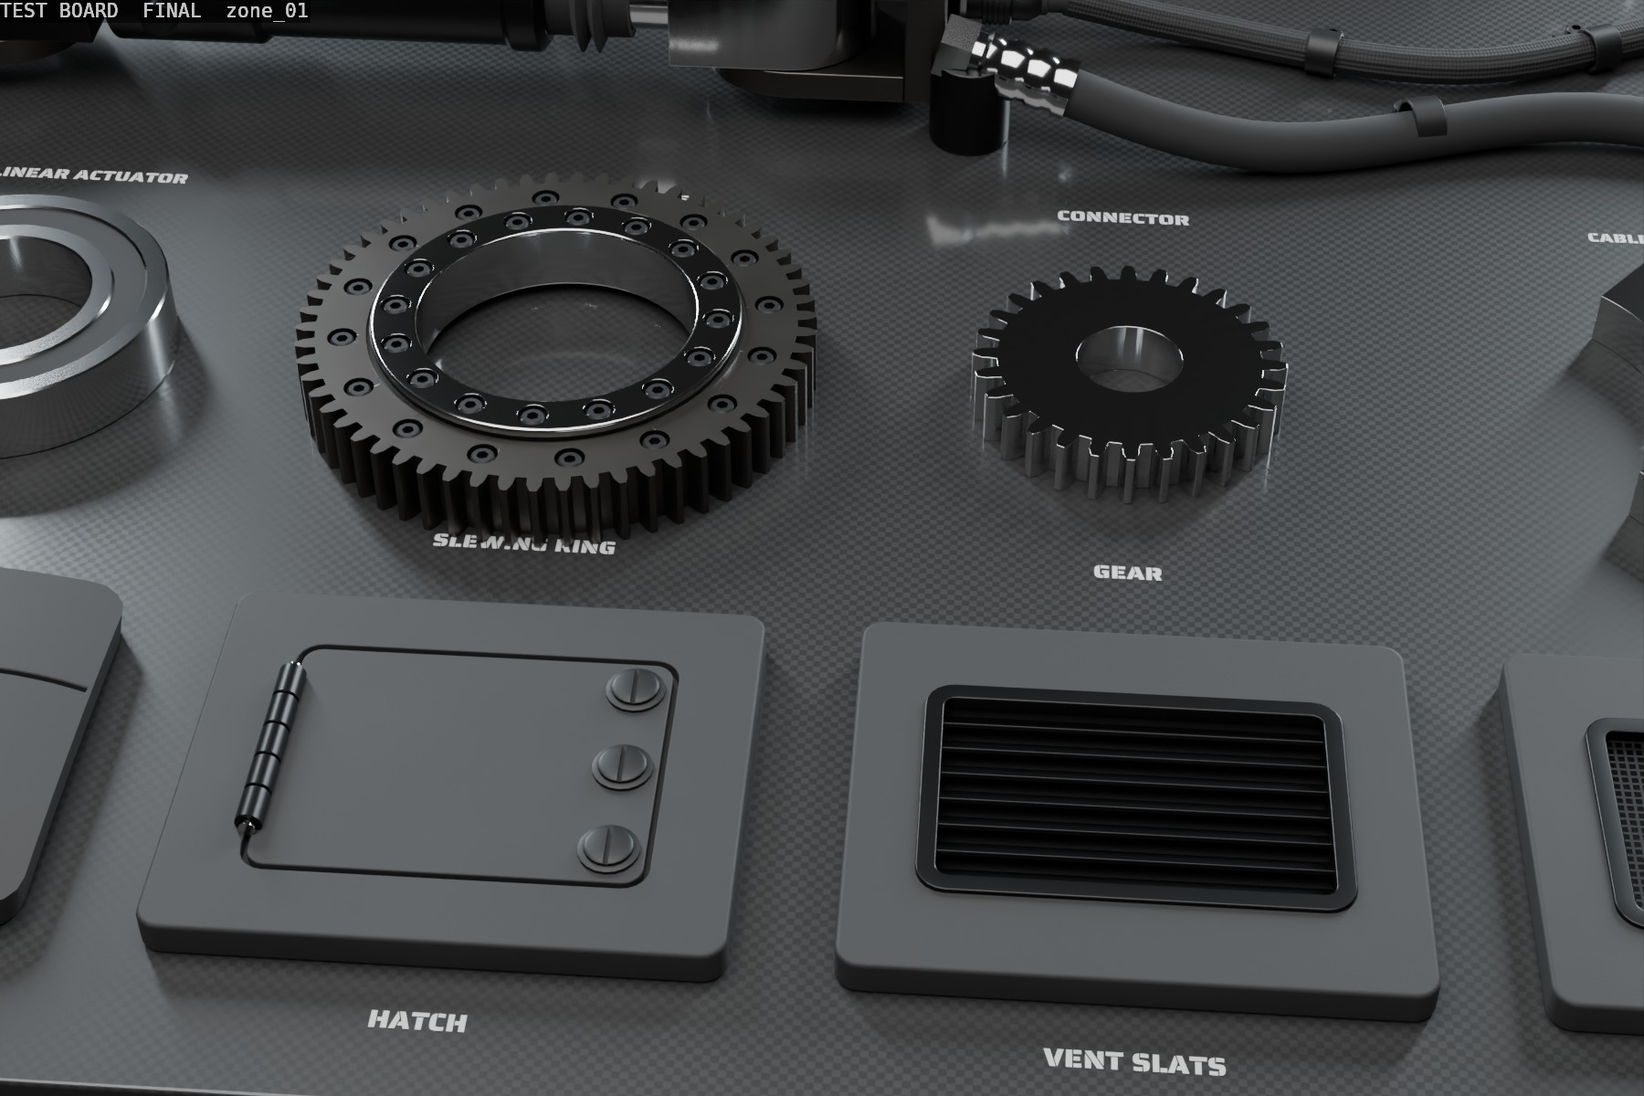
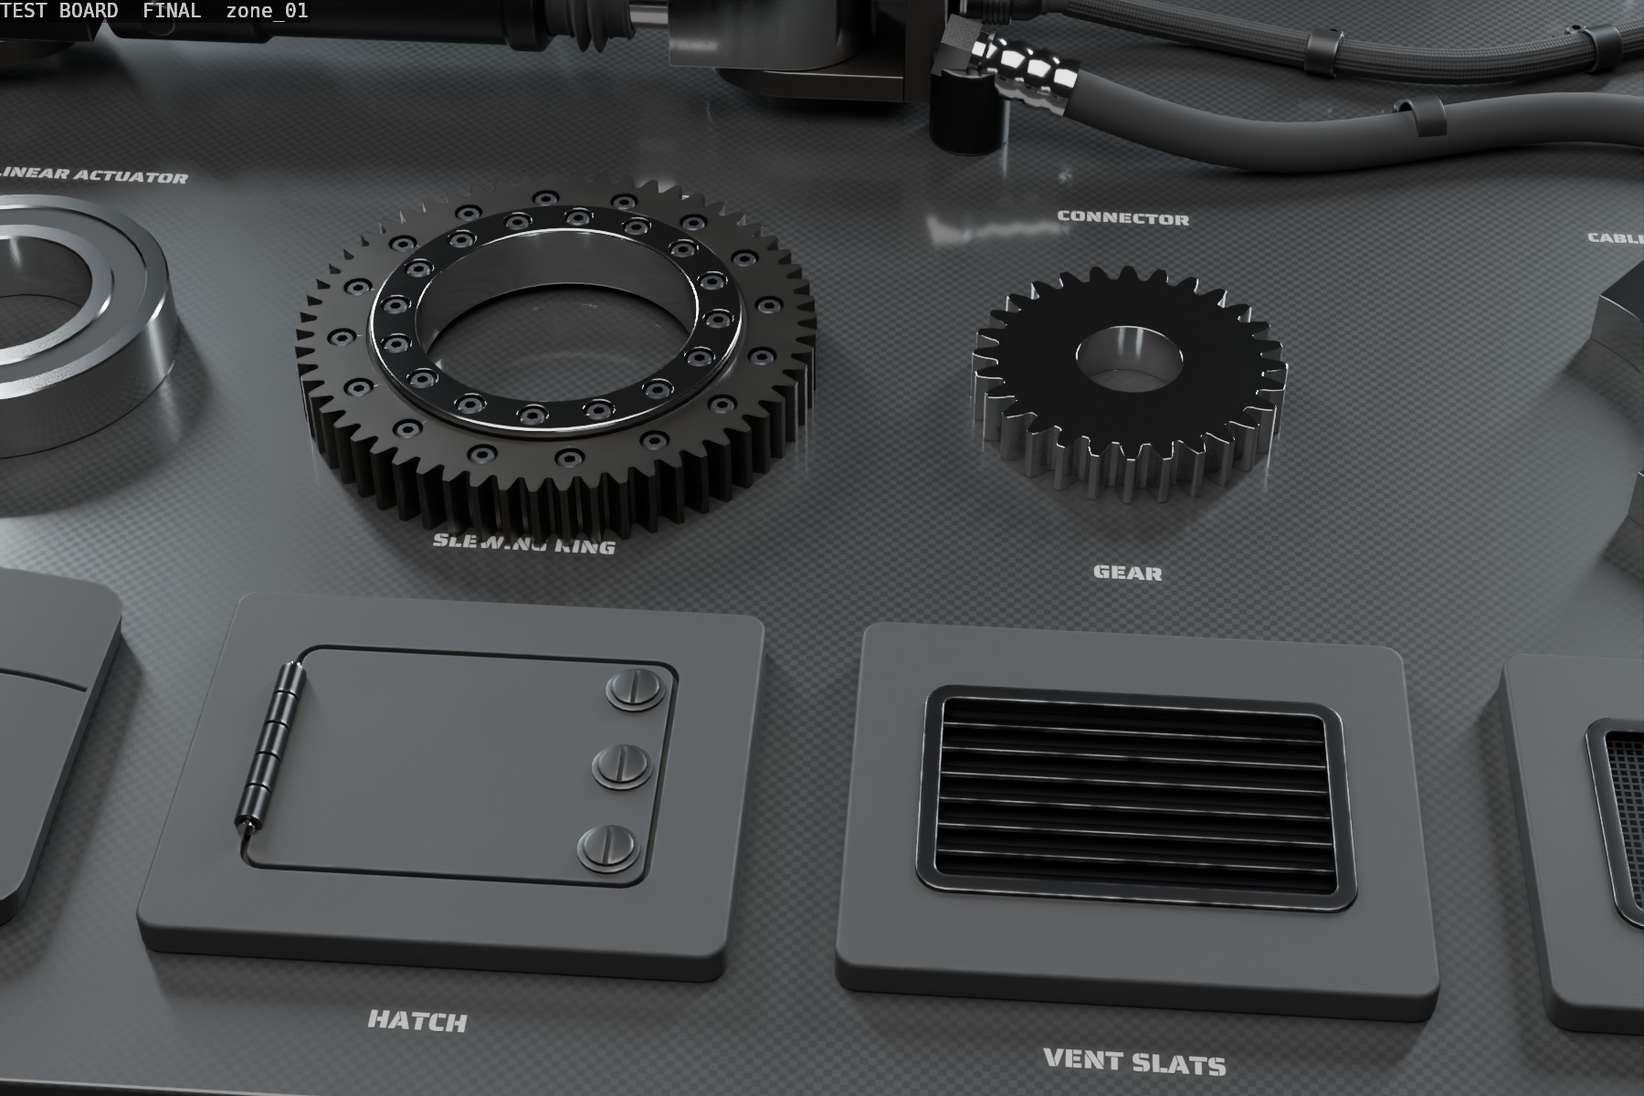
Involute gears, rounded bellows, batch variation, camera-relative hero rig, contact check

diff --git a/blender/rj28/lib/mech.py b/blender/rj28/lib/mech.py
@@ -162,20 +162,27 @@ def bearing(name, od, id_, width, matrix=None, collection=None):
                        [M.get("steel"), M.get("rubber")], bevel=0.0)
 
 
-def gear_outline(module, teeth, phase=0.0, first=0, count=None):
-    """2D spur gear outline (CCW). Involute flanks approximated by three chords."""
+def gear_outline(module, teeth, phase=0.0, first=0, count=None, flank=5):
+    """2D spur gear outline (CCW): true involute flanks at 20 degrees pressure angle,
+    radial below the base circle, with a relieved root."""
     z = teeth
     r = module * z / 2
-    ra, rf = r + module, r - 1.25 * module
+    ra, rf, rb = r + module, r - 1.25 * module, r * math.cos(math.radians(20.0))
+    inv = lambda al: math.tan(al) - al
+    half = math.pi / (2 * z) + inv(math.radians(20.0))        # half tooth angle on the base circle
+
+    def theta(rr):
+        return max(half - inv(math.acos(min(1.0, rb / rr))), 0.04 * module / ra)
+
+    r0 = max(rb, rf + 0.3 * module)
+    radii = [r0 + (ra - r0) * i / (flank - 1) for i in range(flank)]
+    root = min(theta(r0) + 0.22 * module / rf, math.pi / z - 0.06 * module / rf)
+    tooth = [(rf, -root)] + [(rr, -theta(rr)) for rr in radii] + [(rr, theta(rr)) for rr in reversed(radii)] + [(rf, root)]
     p = 2 * math.pi / z
-    tip = 0.36 * module / ra
     pts = []
     for k in range(first, first + (count or z)):
         a = phase + k * p
-        for rr, off in ((rf, -0.30 * p), (rf + 0.35 * module, -0.275 * p), (r, -0.25 * p),
-                        (ra, -tip), (ra, tip), (r, 0.25 * p),
-                        (rf + 0.35 * module, 0.275 * p), (rf, 0.30 * p)):
-            pts.append((rr * math.cos(a + off), rr * math.sin(a + off)))
+        pts += [(rr * math.cos(a + off), rr * math.sin(a + off)) for rr, off in tooth]
     return pts
 
 
@@ -254,15 +261,23 @@ def slewing_ring(name, od, id_, height, bolts=16, size="M6", matrix=None, collec
 
 # ── actuators ────────────────────────────────────────────────────────────────
 def bellows_bm(r_in, r_out, length, pitch=7.0, cuff=8.0):
-    """Rubber bellows along Z from z=0 to z=length with plain cuffs at both ends."""
+    """Rubber bellows along Z from z=0 to z=length. Convolutions have rounded crests
+    and valleys; each cuff carries a raised bead either side of the clamp seat."""
     n = max(2, round((length - 2 * cuff) / pitch))
     p = (length - 2 * cuff) / n
     bore, collar, valley = r_in + 0.4, r_in + 3.0, r_in + 2.2
-    prof = [(bore, 0.0), (collar, 0.0), (collar, cuff)]
+    bead = min(0.9, cuff * 0.12)
+    amp = r_out - valley
+    prof = [(bore, 0.0), (collar, 0.0), (collar + bead, cuff * 0.12), (collar, cuff * 0.24), (collar, cuff * 0.76),
+            (collar + bead, cuff * 0.88), (collar, cuff)]
+    steps = 8
     for i in range(n):
-        z = cuff + i * p
-        prof += [(r_out, z + p * 0.5), (valley, z + p)]
-    prof += [(collar, length - cuff + 0.01), (collar, length), (bore, length)]
+        for k in range(1, steps + 1):
+            t = k / steps
+            prof.append((valley + amp * (0.5 - 0.5 * math.cos(2 * math.pi * t)) ** 0.8, cuff + (i + t) * p))
+    prof[-1] = (collar, length - cuff)
+    prof += [(collar + bead, length - cuff * 0.88), (collar, length - cuff * 0.76), (collar, length - cuff * 0.24),
+             (collar + bead, length - cuff * 0.12), (collar, length), (bore, length)]
     return P.revolve(prof, P.auto_segs(r_out * 2))
 
 

diff --git a/blender/tools/check_contact.py b/blender/tools/check_contact.py
@@ -1,0 +1,79 @@
+"""Find parts that float and parts that sink into each other.
+
+    blender --background --python blender/tools/check_contact.py -- [float_mm] [sink_mm]
+
+FLOAT: no vertex of the part comes within float_mm (default 1.5) of any other part.
+SINK:  some vertex of part A lies more than sink_mm (default 6) inside part B.
+Fasteners, cables and decals are meant to sit inside their hosts and are skipped as A.
+"""
+import sys
+from pathlib import Path
+
+import bmesh
+import bpy
+from mathutils import Vector
+from mathutils.bvhtree import BVHTree
+
+sys.path.insert(0, str(Path(__file__).resolve().parents[1]))
+
+from rj28 import model, parts  # noqa: E402
+from rj28.lib import core as C  # noqa: E402
+
+args = sys.argv[sys.argv.index("--") + 1:] if "--" in sys.argv else []
+FLOAT = float(args[0]) if args else 1.5
+SINK = float(args[1]) if len(args) > 1 else 6.0
+SKIP_A = ("Screw", "Bolt", "Stud", "Quarter_Turn", "Cable", "Lead", "Loom", "Hose", "Line", "Loop", "Plug", "Pin",
+          "Label", "Mark", "Ferrule", "Clip", "Washer")
+
+model.build(None, context=False)
+items = []
+for ob in parts.all_parts():
+    if ob.type != "MESH" or not len(ob.data.vertices):
+        continue
+    me = C.evaluated_mesh(ob)
+    bm = bmesh.new()
+    bm.from_mesh(me)
+    bmesh.ops.triangulate(bm, faces=bm.faces)
+    vs = [v.co * 1000.0 for v in bm.verts]
+    tree = BVHTree.FromPolygons(vs, [[v.index for v in f.verts] for f in bm.faces])
+    lo = Vector([min(v[i] for v in vs) for i in range(3)])
+    hi = Vector([max(v[i] for v in vs) for i in range(3)])
+    items.append((ob.name, vs[::max(1, len(vs) // 1500)], tree, lo, hi, ob.get("rj28_assembly", "")))
+    bm.free()
+    bpy.data.meshes.remove(me)
+
+floats, sinks = [], []
+gap = {}                                   # part -> smallest distance to any other part, either direction
+for name, vs, _, lo, hi, aa in items:
+    if aa == "17":
+        continue
+    worst = (0.0, "")
+    for other, _, tree, lo2, hi2, aa2 in items:
+        if other == name or aa2 == "17" or any(lo[i] > hi2[i] + 20 or hi[i] < lo2[i] - 20 for i in range(3)):
+            continue
+        for v in vs:
+            co, no, _, d = tree.find_nearest(v, 40.0)
+            if co is None:
+                continue
+            gap[name] = min(gap.get(name, 1e9), d)
+            gap[other] = min(gap.get(other, 1e9), d)
+            if d > worst[0] and (v - co).dot(no) < 0 and tree.ray_cast(v, (v - co).normalized() * -1)[0] is not None:
+                # behind the nearest face: count hits along one ray to confirm it is inside a closed solid
+                hits, p, dirn = 0, v.copy(), Vector((0.3, 0.5, 0.81)).normalized()
+                while True:
+                    h = tree.ray_cast(p, dirn)
+                    if h[0] is None:
+                        break
+                    hits += 1
+                    p = h[0] + dirn * 1e-3
+                if hits % 2:
+                    worst = (d, other)
+    if worst[0] > SINK and not any(k in name for k in SKIP_A) and "Thorax_Frame" not in worst[1]:
+        sinks.append((worst[0], name, worst[1]))
+
+floats = [(gap.get(n, 99.0), n) for n, *_rest, aa in items if aa != "17" and gap.get(n, 99.0) > FLOAT]
+for d, name in sorted(floats, reverse=True):
+    print(f"FLOAT {d:6.1f} {name}")
+for d, a, b in sorted(sinks, reverse=True)[:80]:
+    print(f"SINK {d:6.1f} {a} in {b}")
+print("CHECK", len(items), "parts,", len(floats), "floating,", len(sinks), "sunk")

diff --git a/blender/rj28/hero.py b/blender/rj28/hero.py
@@ -48,19 +48,29 @@ def _area(name, loc, target, size, power, color=(1, 1, 1), size_y=None, spread=1
     return ob
 
 
-def studio(extent=2000.0, gain=1.0):
-    """Build the hero light rig around a subject standing at the origin."""
+def studio(extent=2000.0, gain=1.0, camera=(0.0, -1.0, 0.0)):
+    """Build the hero light rig around a subject standing at the origin. The rig is laid out for a
+    camera straight in front and turned about Z to wherever the camera really is, so the rims stay
+    behind the subject and the strips stay beside the lens in every shot."""
+    import math
+    from mathutils import Matrix
+    turn = Matrix.Rotation(math.atan2(camera[0], -camera[1]), 3, "Z")
     RD.clear_lights()
     for ob in [o for o in bpy.data.objects if o.name.startswith("RJ28_Floor")]:
         bpy.data.objects.remove(ob)
     k = extent / 2000.0
     p = gain * k * k
     c = Vector((0, 0, 1050)) * k
-    _area("Hero_Key", Vector((250, -700, 3700)) * k, c, 3200 * k, 170 * p, (1.0, 0.99, 0.97), spread=140)
-    rims = [_area(name, Vector((sx * 2300, 2100, 1550)) * k, c + Vector((0, 0, 100)) * k, 380 * k, 95 * p,
+    _area("Hero_Key", turn @ Vector((250, -700, 3700)) * k, c, 3200 * k, 170 * p, (1.0, 0.99, 0.97), spread=140)
+    rims = [_area(name, turn @ Vector((sx * 2300, 2100, 1550)) * k, c + Vector((0, 0, 100)) * k, 380 * k, 95 * p,
                   (0.80, 0.90, 1.0), 2700 * k, spread=100) for name, sx in (("Hero_Rim_L", 1), ("Hero_Rim_R", -1))]
-    rims.append(_area("Hero_Fill", Vector((900, -3300, 450)) * k, c, 2200 * k, 18 * p, (1.0, 0.95, 0.90), 1300 * k,
+    rims.append(_area("Hero_Fill", turn @ Vector((900, -3300, 450)) * k, c, 2200 * k, 18 * p, (1.0, 0.95, 0.90), 1300 * k,
                       spread=150))
+    # black reads through what it reflects: two tall strip boxes at a grazing angle put a soft
+    # gradient down every panel and a highlight on every bevel that faces the front quarter
+    for name, sx, w in (("Hero_Strip_L", 1, 18), ("Hero_Strip_R", -1, 11)):
+        rims.append(_area(name, turn @ Vector((sx * 2700, -1500, 1250)) * k, c, 420 * k, w * p, (0.94, 0.97, 1.0), 2900 * k,
+                          spread=120))
     RD.world(0.012, (0.5, 0.55, 0.6))
     fl = RD.floor(0.0, base=0.008, rough=0.5)
     # the rims draw the silhouette and the fill opens the shadows; only the key lights the floor (light linking)
@@ -95,7 +105,7 @@ def render(name, scale=1.0, samples=256, out=None, tag=""):
     if amount:
         explode.apply()
         explode.pose(amount)
-    studio(shot.get("extent", 2000.0))
+    studio(shot.get("extent", 2000.0), shot.get("gain", 1.0), shot["loc"])
     setup(shot["res"], samples, scale)
     cam = RD.camera(shot["loc"], shot["target"], shot["lens"])
     cam.data.dof.use_dof = False

diff --git a/blender/rj28/materials.py b/blender/rj28/materials.py
@@ -112,6 +112,9 @@ WEAR = {
     "cfrp": (0.0, None, 0.18),
 }
 DUST = (0.105, 0.098, 0.088)
+# key -> (roughness spread, value spread) from part to part: panels and housings come from
+# different batches and wear differently, so no two neighbours are quite the same black
+BATCH = {"armour": (0.10, 0.30), "alu": (0.10, 0.25), "ti": (0.08, 0.18), "cfrp": (0.06, 0.0), "rubber": (0.06, 0.20)}
 
 
 def _mix_rgb(nt, fac, a, b):
@@ -155,7 +158,7 @@ def _source(sock):
     return tuple(v[:3]) if hasattr(v, "__len__") else float(v)
 
 
-def _wear(nt, b, edge_rough, edge_col, dust):
+def _wear(nt, b, edge_rough, edge_col, dust, batch=None):
     """Logical, light wear from two masks.
 
     Edge mask: where the true normal and a 1.5 mm bevel-rounded normal disagree there
@@ -201,6 +204,20 @@ def _wear(nt, b, edge_rough, edge_col, dust):
                   _math(nt, "MULTIPLY", _range(nt, nz2.outputs[0], 0.3, 0.75), dust), clamp=True)
         col = _mix_rgb(nt, d, col, DUST)
         rough = _mix_val(nt, d, rough, 0.92)
+    if batch:
+        rnd = nt.nodes.new("ShaderNodeObjectInfo").outputs["Random"]
+        if batch[0]:
+            rough = _math(nt, "ADD", rough, _math(nt, "MULTIPLY", _math(nt, "SUBTRACT", rnd, 0.5), batch[0]), clamp=True)
+        if batch[1]:
+            k = _math(nt, "ADD", 1.0, _math(nt, "MULTIPLY", _math(nt, "SUBTRACT", rnd, 0.5), batch[1]))
+            mul = nt.nodes.new("ShaderNodeVectorMath")
+            mul.operation = "SCALE"
+            if hasattr(col, "is_output"):
+                nt.links.new(col, mul.inputs[0])
+            else:
+                mul.inputs[0].default_value = col
+            nt.links.new(k, mul.inputs["Scale"])
+            col = mul.outputs["Vector"]
     for sock, v in ((b.inputs["Base Color"], col), (b.inputs["Roughness"], rough)):
         if hasattr(v, "is_output"):
             nt.links.new(v, sock)
@@ -285,7 +302,7 @@ def _build(key):
     else:
         raise KeyError(key)
     if key in WEAR:
-        _wear(nt, b, *WEAR[key])
+        _wear(nt, b, *WEAR[key], batch=BATCH.get(key))
     m["rj28_key"] = key
     return m
 

diff --git a/blender/rj28/markings.py b/blender/rj28/markings.py
@@ -11,7 +11,7 @@ from . import materials as M
 from .lib import fittings as F
 from .lib.core import MM
 
-SRGB_WHITE = (0.82, 0.82, 0.82)
+SRGB_WHITE = (0.56, 0.56, 0.55)             # paint, not paper: bright enough to read, never the brightest thing
 
 
 def _pack(items, side, margin):
@@ -53,7 +53,7 @@ def build_atlas(path, size=2048):
     sc.collection.objects.link(cam)
     sc.camera = cam
     mats = {}
-    for name, col in (("white", SRGB_WHITE), ("cyan", M.CYAN), ("dark", (0.012, 0.012, 0.013))):
+    for name, col in (("white", SRGB_WHITE), ("cyan", tuple(c * 0.62 for c in M.CYAN)), ("dark", (0.012, 0.012, 0.013))):
         m = bpy.data.materials.new("_atlas_" + name)
         m.use_nodes = True
         nt = m.node_tree

diff --git a/blender/rj28/measure.py b/blender/rj28/measure.py
@@ -37,9 +37,9 @@ FILL = {
     "harness": 0.55,      # copper + insulation + air in the braid
     "optic": 0.60,
     "battery": 1.00,      # enclosure volume x cell-pack density
-    "electronics": 0.35,
+    "electronics": 0.90,  # potted modules in aluminium housings with copper spreaders
 }
-DENSITY_OVERRIDE = {"battery": 2700.0, "electronics": 1900.0, "actuator": 4300.0}
+DENSITY_OVERRIDE = {"battery": 2700.0, "electronics": 3200.0, "actuator": 4300.0}
 
 
 def volume_m3(ob):

diff --git a/docs/DESIGN.md b/docs/DESIGN.md
@@ -30,35 +30,35 @@ Shape language taken from it:
 |---|---|---|---|
 | Cannon direction | Points to the robot's right | Level, pointing forward | Brief. Hard requirement. |
 | Cap brim | Swung to the rear-left | Straight back, raked down 12° | Brief. Hard requirement. |
-| Stance | Wide A-stance, feet about 430 mm apart | Feet at hip-axis width (240 mm) | Brief. Open question at G1. |
-| Shoulder armour | About 800 mm over the pauldrons | 700 mm | Brief. Open question at G1. |
-| Feet | About 200 mm wide | 310 × 135 mm | Brief. Open question at G1. |
+| Stance | Wide A-stance, feet about 430 mm apart | Feet at hip-axis width (240 mm) | Image, decided at G1: hip axes 270 mm apart, legs abducted 5.5°, about 425 mm between the feet (D-021). |
+| Shoulder armour | About 800 mm over the pauldrons | 700 mm | Image, decided at G1: 780 mm over 520 mm shoulder axes (D-021). |
+| Feet | About 200 mm wide | 310 × 135 mm | Image, decided at G1: 330 × 195 mm (D-021). |
 | Knee | Reads as a rotary joint | Crank driven by two linear actuators | Both: round bearing housings stay on the knee axis, the linear actuators sit behind the thigh. |
-| Barrel | About 400 mm long | About 750 mm, and about 2,050 mm overall when stowed | These two brief numbers conflict with each other. See 4.6 and D-007. |
+| Barrel | About 400 mm long | About 750 mm, and about 2,050 mm overall when stowed | These two brief numbers conflict with each other. Decided at G1: 455 mm barrel, which gives 2,050 mm stowed (D-015, D-021). |
 | Warning labels | Yellow triangles | White and ice cyan only | Brief. |
 | Setting | Bright factory | Dark studio | Brief. |
 
 ## 3. Proportion scheme
 
-Height 1,730 mm to the cap crown, about 8 heads. Legs are half the height (hip axis 905 mm). Shoulder armour 700 mm against 240 mm between the hip axes. The chest is 330 mm deep before the backpack.
+Height 1,730 mm to the cap crown, about 8 heads. Legs are half the height (hip axis 905 mm). Shoulder armour 780 mm against 270 mm between the hip axes. The chest is 330 mm deep before the backpack.
 
 Bulk comes from components, and each bulky volume is designed around what is inside it:
 
 | Volume | Outside | What fills it |
 |---|---|---|
-| Shoulder | Ø150–176 housings, 700 mm armour span | Three rotary actuators: pitch (in the thorax flank), roll (on the joint centre), yaw (top of the upper arm) |
+| Shoulder | Ø150–176 housings, 780 mm armour span | Three rotary actuators: pitch (in the thorax flank), roll (on the joint centre), yaw (top of the upper arm) |
 | Forearm | 192 × 198 mm | Hand drive: six motors with their screw drives and linkages |
-| Chest | 320 × 330 mm frame under 15 mm panels | Battery pack, two compute modules, power distribution, shoulder pitch actuators |
+| Chest | 350 × 290 mm tub under 10 mm panels | Battery pack (8.3 L, stepped round the waist beam and the shoulder actuators), two compute modules, power distribution, shoulder pitch actuators |
 | Backpack | 330 × 128 × 330 mm | Two radiator cores, two blowers, coolant reservoir, mount hardpoint |
 | Hip | Ø174 drum | Hip pitch actuator, forming the top of the thigh |
 | Thigh | 212 × 206 mm, plus actuators behind | Structural frame; two knee actuators outside the armour at the rear |
 | Shin | 190 × 196 mm | Structural member, two ankle actuators at the rear, cable channel |
 
-Stance: upright, knees flexed 4°, toes out 6°. Everything above the waist sits 30 mm forward of the hip axes so the mass of the backpack and cannon stays over the feet (D-012).
+Stance: upright, legs abducted 5.5°, knees flexed 4°, toes out 6°. Everything above the waist sits 30 mm forward of the hip axes so the mass of the backpack and cannon stays over the feet (D-012).
 
 ## 4. Assemblies
 
-Part numbers are `RJ28-AA-NNN`. Counts are intent for Phases 3 to 5 and total about 430.
+Part numbers are `RJ28-AA-NNN`. The counts below were the intent before Gate G1. After G1 the detail target was raised (D-023); the built counts are in `docs/BUILD_LOG.md`.
 
 ### 01 Head and cap (about 40 parts)
 
@@ -92,7 +92,7 @@ Shell; two radiator cores behind slatted grilles; two axial blowers with guards;
 
 Shoulder roll actuator; pauldron shell with front and rear cheeks, on a carrier; shoulder yaw actuator; upper-arm structural member; outer half-shell; elbow housing with dust cover and hard stop; forearm shell in two halves with two access panels, a vent and a wear plate; forearm roll bearing; wrist joint with bellows.
 
-Left and right are not mirror images. The left pauldron reaches 356 mm from the centreline, has a longer skirt and a rear cheek, and carries the unit number. The right reaches 344 mm, sits 12 mm lower and is cut back at the rear to clear the cannon (D-011).
+Left and right are not mirror images. The left pauldron reaches 398 mm from the centreline, has a longer skirt and a rear cheek, and carries the unit number. The right reaches 382 mm, sits 18 mm lower and is cut back at the rear to clear the cannon (D-011).
 
 ### 09 / 10 Hands (about 28 parts each)
 
@@ -114,7 +114,7 @@ See 4.6.
 
 As the brief: runs with real sag, P-clips every 80 to 120 mm, connectors with backshells at both ends, service loops at every moving joint. Markings in white and ice cyan only, set in Saira Stencil One.
 
-### 4.6 Interceptor mount — geometry as built in the blockout
+### 4.6 Interceptor mount — geometry
 
 A swing-arm mount with one main axis.
 
@@ -126,9 +126,9 @@ A swing-arm mount with one main axis.
 | Vertical (stowed, 90°) | Bore at y = +285 mm, behind the shoulder; breech between z = 1,385 and 1,615 mm |
 | Working range | −5° to +90° |
 | Traverse | ±25° on a Ø170 slewing ring directly under the trunnion |
-| Barrel | Ø110 × 500 mm, reinforce at the breech, plain muzzle ring |
-| Breech | 230 × 170 × 190 mm |
-| Overall height, stowed | 2,115 mm (blockout measurement) |
+| Barrel | Ø110 × 455 mm, reinforce at the breech, plain muzzle ring |
+| Breech | 190 × 164 × 176 mm (D-022) |
+| Overall height, stowed | 2,050 mm (measured from the mesh) |
 
 How it is carried, from the body outwards:
 
@@ -142,7 +142,7 @@ How it is carried, from the body outwards:
 
 Why a swing arm: with the trunnion through the breech, the stowed cannon stood beside the head. It hid the cap brim in side view and stood 2,300 mm tall. Lowering the trunnion and carrying the cannon above it puts the stowed barrel behind the shoulder with a visible gap to the brim, and brings the height down (D-008).
 
-Swept-volume check (`poses.sweep_check`, report in `docs/review/phase2/mount_sweep.json`): 60 poses covering elevation −5° to 90° at zero traverse, and traverse ±25° at both 0° and −5°. Minimum clearance to the body is 15.0 mm (stowed breech over the slewing ring, by design) and 15.5 mm to the head at full inboard traverse.
+Swept-volume check (`poses.sweep_check`, report in `docs/review/phase2/mount_sweep.json`): 60 poses covering elevation −5° to 90° at zero traverse, and traverse ±25° at both 0° and −5°. On the blockout the minimum clearance was 15.0 mm. On the detailed model it is 16.6 mm, and 19.1 mm to the head at full inboard traverse.
 
 ## 5. Joints
 
@@ -151,7 +151,7 @@ All 46 degrees of freedom get real hardware in Phase 4. Axes and drives:
 | Joint | Axis | Drive |
 |---|---|---|
 | Hip yaw / roll / pitch | Z / Y / X at the hip centre | Three rotary actuators |
-| Knee pitch | X | Two linear actuators behind the thigh on an 85 mm crank |
+| Knee pitch | X | Two linear actuators behind the thigh on a 70 mm crank, phased 13° so the lever arm is 40 mm at both ends of the 0 to 110° range and 70 mm in the middle (D-025) |
 | Ankle pitch, roll | X, Y | Two parallel linear actuators on a universal joint |
 | Waist yaw | Z | Slewing ring |
 | Waist pitch | X | Two linear actuators beside the spine |

diff --git a/docs/DECISIONS.md b/docs/DECISIONS.md
@@ -38,3 +38,6 @@ One line per decision, newest at the bottom. "Brief" means the master build prom
 | D-032 | 3 | Battery service door is on the backpack's left side panel, not the rear. | The rear face is taken by two blowers, two radiator grilles and the sight glass. |
 | D-033 | 5 | Battery enclosure enlarged from 5.7 to 8.3 litres: a stepped casting with a foot, a saddle over the waist reaction beam, a rear tower behind the compute stack and low wings under the shoulder actuators. Cells are silicon-anode, stacked cell-to-pack. | The mass roll-up showed the first enclosure could hold about half of a 23 kg, 5.0 kWh pack. Now about 600 Wh/L and 2.8 kg/L at pack level, stated in the endurance note. |
 | D-034 | 5 | Hip and waist actuator leads run to a connector panel on the back of the pelvis; each leg trunk starts at a plug on that panel. | Actuator ports were left without cables, and the leg looms started in mid-air. |
+| D-035 | 6 | The hero light rig is laid out for a camera in front and turned about Z to wherever the camera is; two low-power strip boxes sit beside the lens. | With a fixed rig the rim lights became key lights in rear shots and burnt black armour to light grey. |
+| D-036 | 6 | Part-to-part variation: armour, aluminium, titanium, carbon and rubber each take a small roughness and value offset per part. Decal white is a 56% paint grey and decal cyan is 62% of the emitter colour. | A fresh-eyes review read the model as two uniform materials, and the decals as glowing. |
+| D-037 | 6 | Gear teeth are true 20° involutes with a relieved root; bellows have rounded crests and beaded cuffs. | The same review called the first versions clip-art gears and knife-edged bellows. |
